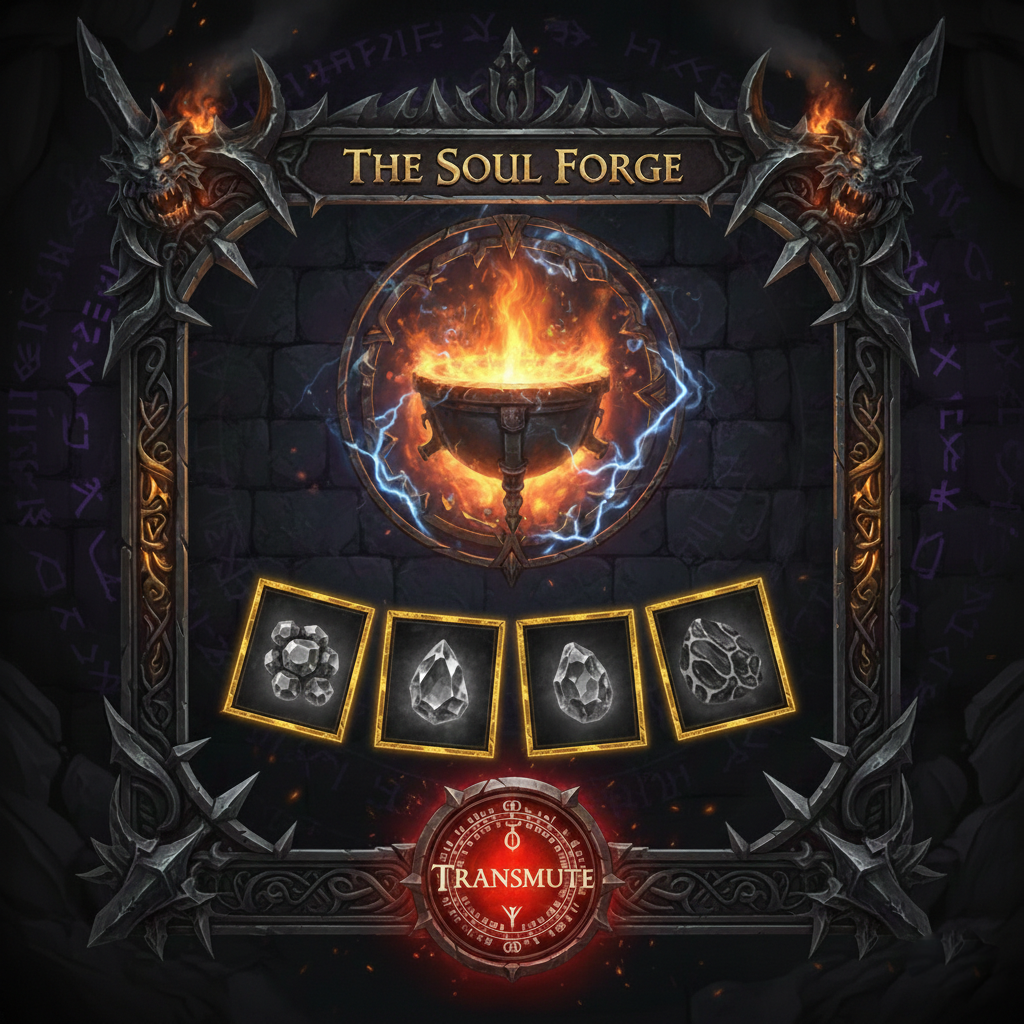
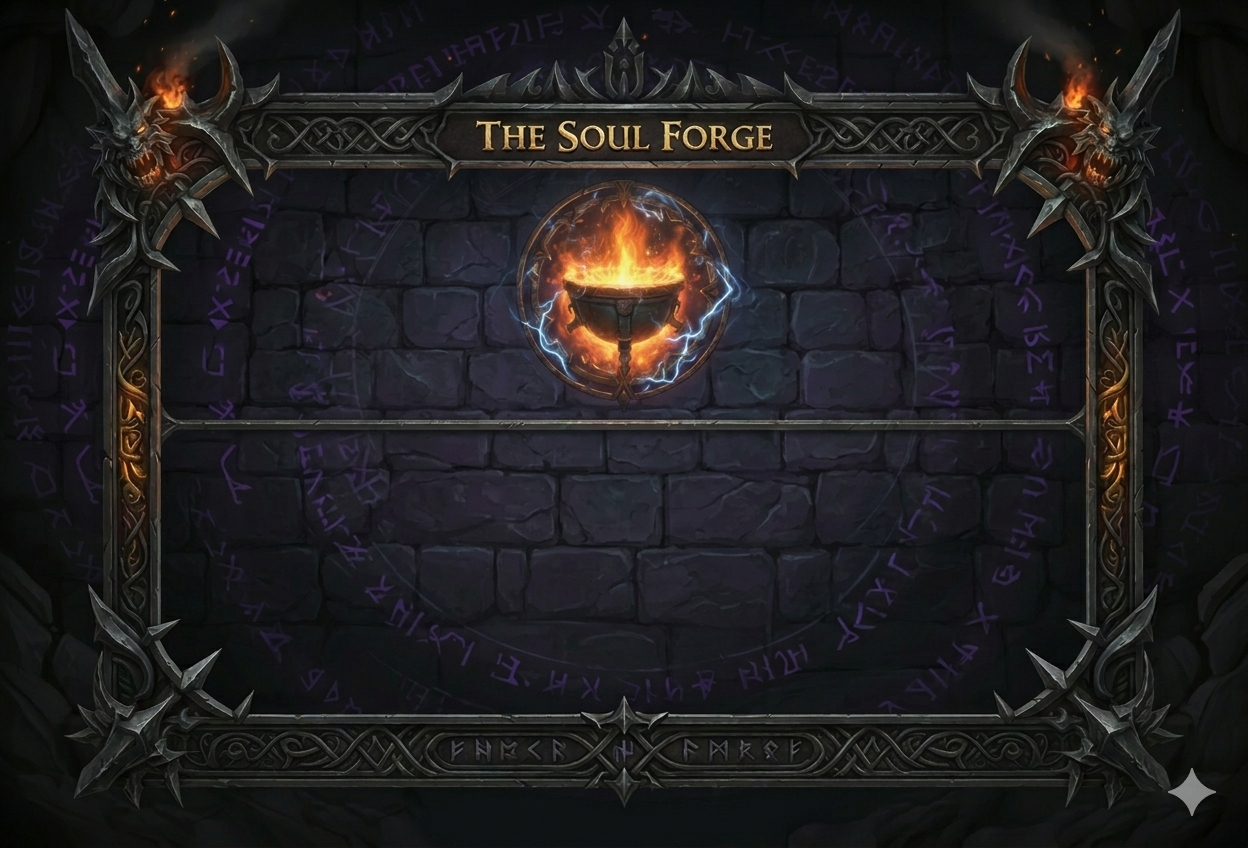
polish 001

diff --git a/js/render.js b/js/render.js
@@ -111,35 +111,7 @@ function drawHealthBar(x, y, w, val, max, name) {
 
 function drawSprite(key, x, y, w, h, label, color) {
     if (assets[key] && assets[key].complete) {
-        // Use sprite sheet logic for player and enemies 1-3
-        const isAnimatedEnemy = key.startsWith('enemy_') && parseInt(key.split('_')[1]) <= 3;
-
-        if (key === 'player' || isAnimatedEnemy) {
-            const cols = 6, rows = 6, totalFrames = 36;
-            const frameIndex = Math.floor(Date.now() / 80) % totalFrames;
-            const sw = assets[key].width / cols;
-            const sh = assets[key].height / rows;
-            const sx = (frameIndex % cols) * sw;
-            const sy = Math.floor(frameIndex / cols) * sh;
-
-            // Maintain aspect ratio
-            const ratio = sw / sh;
-            let drawW = w;
-            let drawH = h;
-
-            if (w / h > ratio) {
-                drawW = h * ratio;
-            } else {
-                drawH = w / ratio;
-            }
-
-            const offsetX = (w - drawW) / 2;
-            const offsetY = (h - drawH) / 2;
-
-            ctx.drawImage(assets[key], sx, sy, sw, sh, x + offsetX, y + offsetY, drawW, drawH);
-        } else {
-            ctx.drawImage(assets[key], x, y, w, h);
-        }
+        ctx.drawImage(assets[key], x, y, w, h);
     } else {
         ctx.fillStyle = color || "#323232";
         ctx.fillRect(x, y, w, h);
@@ -214,7 +186,7 @@ function drawCamp() {
 }
 
 function drawForge() {
-    if (assets['forge_bg'] && assets['forge_bg'].complete) ctx.drawImage(assets['forge_bg'], 155, 0, 650, 650);
+    if (assets['forge_bg'] && assets['forge_bg'].complete) ctx.drawImage(assets['forge_bg'], 2, 0, 956, 650);
 
     if (craftingAnimTimer > 0) {
         ctx.textAlign = "center";
@@ -240,7 +212,16 @@ function drawForge() {
         });
     } else {
         ctx.textAlign = "center"; ctx.fillStyle = COLORS.WHITE; ctx.font = "bold 24px Arial";
-        ctx.fillText(`${player.ore} ORE AVAILABLE`, 480, 510);
+        ctx.fillText(`${player.ore} ORE AVAILABLE`, 480, 410);
+
+        // Display Odds
+        const epicCh = 0.05 + (player.total.LUCK * 0.01);
+        const rareCh = 0.15 + (player.total.LUCK * 0.02);
+        ctx.font = "bold 14px Arial";
+        ctx.fillStyle = COLORS.RARITY_EPIC;
+        ctx.fillText(`EPIC CHANCE: ${Math.round(epicCh * 100)}%`, 400, 380);
+        ctx.fillStyle = COLORS.RARITY_RARE;
+        ctx.fillText(`RARE CHANCE: ${Math.round(rareCh * 100)}%`, 560, 380);
 
         if (inventoryError) {
             ctx.fillStyle = "rgba(255, 0, 0, 0.2)"; ctx.fillRect(330, 530, 300, 80);
@@ -249,7 +230,15 @@ function drawForge() {
         }
     }
 
-    uiButtons.forEach(btn => btn.state === "forge" && drawStyledBtn(btn.x, btn.y, btn.w, btn.h, btn.label, btn.color));
+    uiButtons.forEach(btn => {
+        if (btn.state === "forge") {
+            if (btn.label === "CRAFT" && assets['craft_btn'] && assets['craft_btn'].complete) {
+                ctx.drawImage(assets['craft_btn'], btn.x, btn.y, btn.w, btn.h);
+            } else {
+                drawStyledBtn(btn.x, btn.y, btn.w, btn.h, btn.label, btn.color);
+            }
+        }
+    });
 }
 
 function drawCombat() {
@@ -300,9 +289,14 @@ function drawCombat() {
 }
 
 function drawInventory() {
-    ctx.fillStyle = COLORS.PANEL; ctx.fillRect(30, 80, 900, 520);
+    if (assets['champion_bg'] && assets['champion_bg'].complete) {
+        ctx.drawImage(assets['champion_bg'], 30, 80, 900, 520);
+    } else {
+        ctx.fillStyle = COLORS.PANEL; ctx.fillRect(30, 80, 900, 520);
+    }
     ctx.strokeStyle = COLORS.GOLD; ctx.strokeRect(30, 80, 900, 520);
     drawSprite('player', 40, 120, 400, 400, "CHAMPION");
+
 
     const centerLine = 410;
 
@@ -310,7 +304,13 @@ function drawInventory() {
     ctx.fillText("EQUIPMENT", centerLine, 120);
     drawSlot(centerLine, 140, "WEAPON", player.weapon, 90);
     drawSlot(centerLine + 100, 140, "ARMOR", player.armor, 90);
+
+    ctx.fillStyle = COLORS.GOLD; ctx.font = "bold 18px Arial"; ctx.textAlign = "left";
     ctx.fillText("STATS", centerLine, 280);
+    if (player.points > 0) {
+        ctx.fillStyle = COLORS.CYAN; ctx.font = "bold 14px Arial";
+        ctx.fillText(`(AVAILABLE POINTS: ${player.points})`, centerLine + 70, 280);
+    }
 
     ["STR", "DEX", "STA", "LUCK"].forEach((s, i) => {
         const baseY = 315 + i * 40;

diff --git a/js/state.js b/js/state.js
@@ -37,7 +37,7 @@ function loadAsset(key, path) {
 }
 
 // Begin loading sequence
-loadAsset('player', 'assets/player_Idle-movement-smooth.png');
+loadAsset('player', 'assets/player.png');
 loadAsset('forge_bg', 'assets/crafting_window.png');
 loadAsset('ore', 'assets/ore.png');
 loadAsset('background', 'assets/Background_001.png');
@@ -46,10 +46,12 @@ loadAsset('camp_battle', 'assets/camp_icon_battle.png');
 loadAsset('camp_champion', 'assets/camp_icon_champion.png');
 loadAsset('camp_craft', 'assets/camp_icon_craft.png');
 loadAsset('fight_btn', 'assets/fight_button.png');
+loadAsset('craft_btn', 'assets/craft_button.png');
+loadAsset('champion_bg', 'assets/Champion_window_background.png');
+
 
 for (let i = 1; i <= 10; i++) {
-    const suffix = (i <= 3) ? "_Idle-movement-smooth" : "";
-    loadAsset(`enemy_${i}`, `assets/enemy_lvl_${i}${suffix}.png`);
+    loadAsset(`enemy_${i}`, `assets/enemy_lvl_${i}.png`);
 }
 Object.keys(ZONE_NAMES).forEach(id => loadAsset(`icon_${id}`, `assets/${ZONE_NAMES[id].toLowerCase()}.png`));
 ALL_ITEMS.forEach(item => loadAsset(item.name, `assets/${item.name.toLowerCase().replace(/ /g, '_')}.png`));

diff --git a/js/logic.js b/js/logic.js
@@ -170,10 +170,13 @@ function craftItem() {
     player.ore -= COST;
     inventoryError = false;
 
+    const epicCh = 0.05 + (player.total.LUCK * 0.01);
+    const rareCh = 0.15 + (player.total.LUCK * 0.02);
     const roll = Math.random();
+
     let rarity = "COMMON";
-    if (roll < 0.10) rarity = "EPIC";
-    else if (roll < 0.30) rarity = "RARE";
+    if (roll < epicCh) rarity = "EPIC";
+    else if (roll < epicCh + rareCh) rarity = "RARE";
 
     const possible = ALL_ITEMS.filter(i => i.rarity === rarity);
     const newItem = JSON.parse(JSON.stringify(possible[Math.floor(Math.random() * possible.length)]));

diff --git a/js/main.js b/js/main.js
@@ -101,7 +101,7 @@ function updateUIButtons() {
             createButton(300, 500, 160, 50, "forge", "KEEP", COLORS.GREEN, () => resolveCrafting(true));
             createButton(500, 500, 160, 50, "forge", "SALVAGE", COLORS.RED, () => resolveCrafting(false));
         } else {
-            createButton(380, 540, 200, 60, "forge", "TRANSMUTE (10)", "#cc8400", () => craftItem());
+            createButton(320, 390, 320, 218, "forge", "CRAFT", "#cc8400", () => craftItem());
             createButton(20, 590, 120, 40, "forge", "BACK", COLORS.GRAY, () => changeState("camp"));
         }
     }
